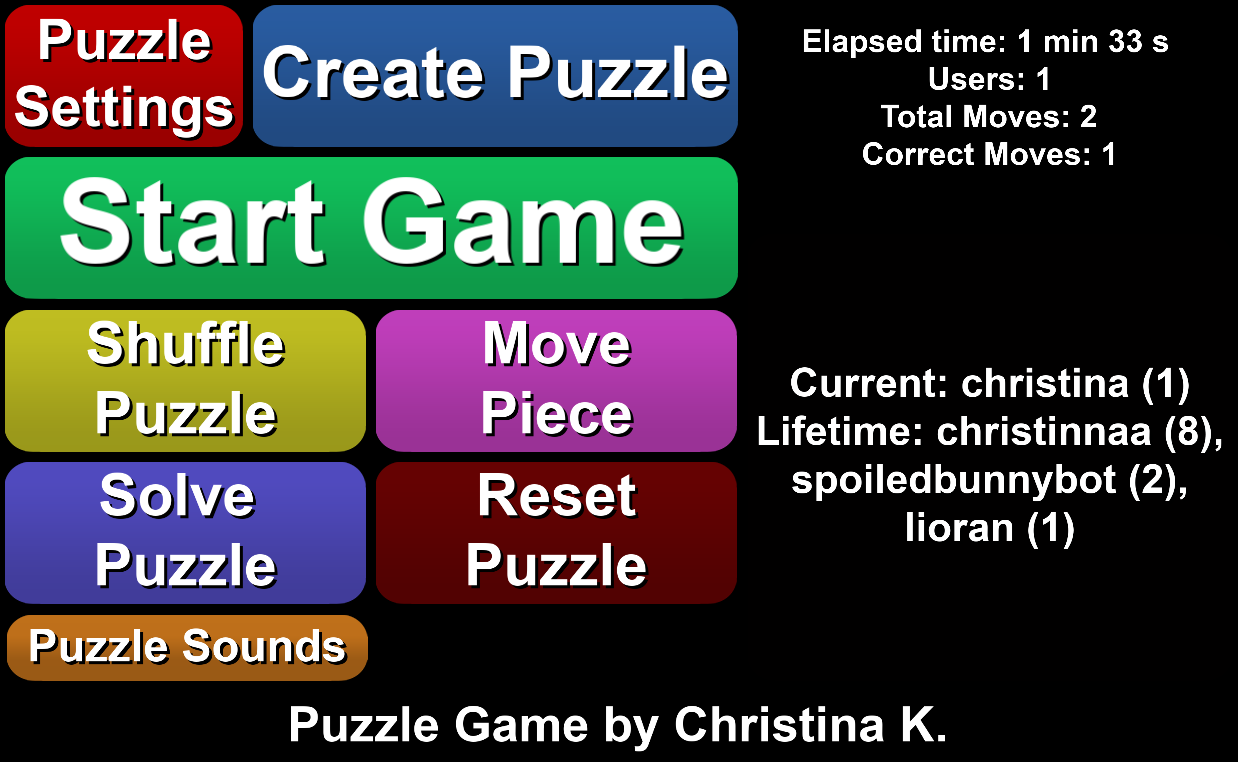
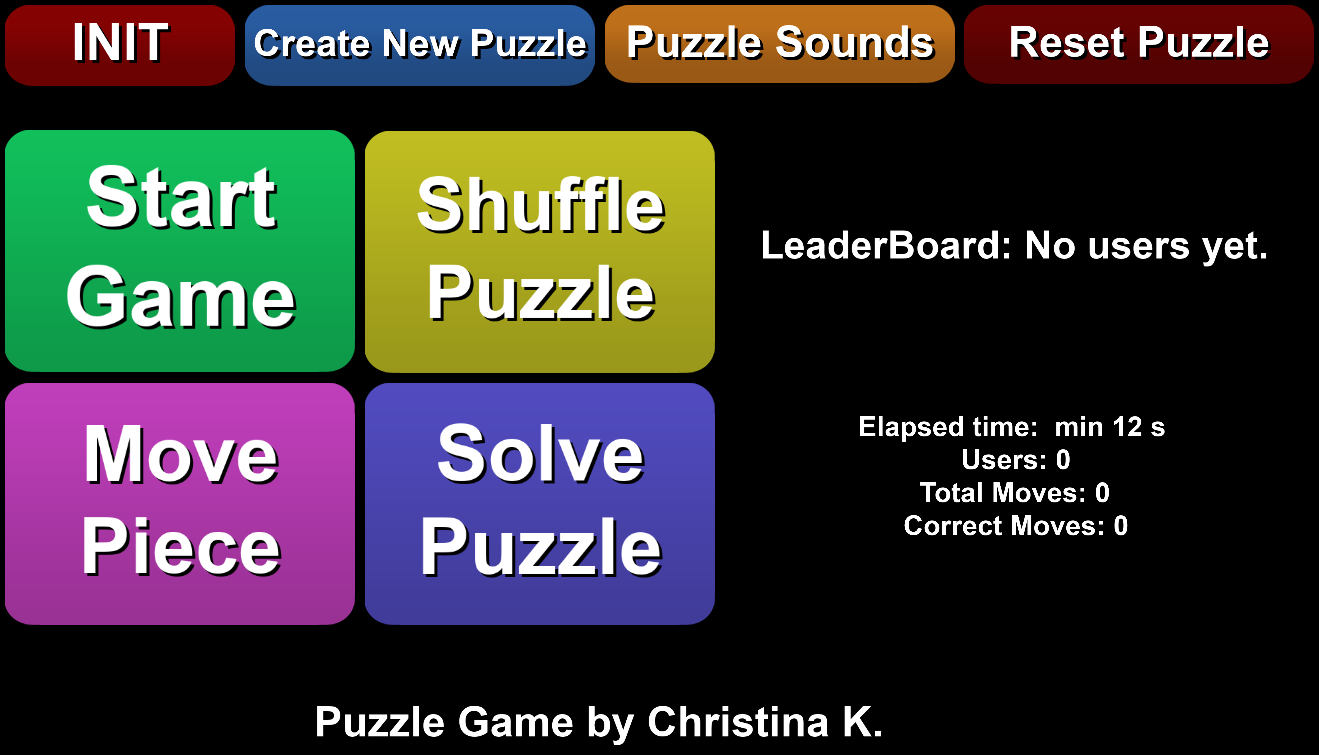
puzzle game update

diff --git a/collections/_extensions/puzzle-game.md b/collections/_extensions/puzzle-game.md
@@ -12,65 +12,125 @@ developer_url: https://christinak.itch.io
 icon_local: puzzle_game.png
 trailer: https://www.youtube.com/embed/fL8GVWe1bv8
 screenshots_local: puzzle_game_ss0.png, puzzle_game_ss.png, puzzle_game_ss2.png, puzzle_game_ss3.png
-version: 1.0
+version: 2.0
 sammi_version: Any
 platform: Any
 overview: |
-    **This extension allows you to transform any OBS source into a puzzle game. Your viewers can use the chat to swap the individual pieces to solve it!**  
+    **Unleash the fun with the Puzzle Game extension! Transform any OBS source into an interactive game where your viewers swap pieces to solve the puzzle, right from the chat!** 
 
-    Great interactive game for when you're away from your screen. You can create a new puzzle game out of any source or scene on the fly! 
+    Whether you're away from your screen or looking for a fresh way to engage with your audience, this is the perfect tool. Create a captivating puzzle from any scene or source instantly!
 
-    **Fully Automatic**  
-    It's extremely simple to create a new puzzle game! You just tell the extension which OBS source to use and how difficult you'd like it to be. It will automatically create a new scene with all the pieces (and their coordinates) and add it as a source to your original scene.\
-    After that you can just press the Start button! (in some cases there might be some minor adjusting needed for size/position of the nested scene)  
+    **Seamless Setup**  
+    Creating a new puzzle is as easy as 1-2-3! Select an OBS source, set the desired difficulty, and voila! The extension does the rest, automatically generating a new scene with all the pieces and their coordinates.  
+    Just hit the 'Start' button and let the fun begin! (In some instances, minor adjustments to the size/position of the nested scene might be necessary.)
 
     [video](https://www.youtube.com/embed/t-nGpUvbRZk)[/video]
 
-    **Multiple puzzle scenes**  
-    Create a puzzle game for multiple sources or scenes! You can have as many as you'd like and freely swap between them, depending on your current scene! 
+    **Unlimited Puzzle Scenes**  
+    Why limit the fun to one scene? Create puzzles for multiple sources or scenes! Switch between them as you wish, based on your current scene!
 
-    **Huge Customization**  
-    Choose the grid size (difficulty of the puzzle), customize borders and margins between the pieces, pick a font for the  coordinates and choose your own colors for everything!
+    **Ultimate Customization**  
+    Personalize your puzzle game to your taste! Choose the grid size for puzzle difficulty, tailor the borders and margins between pieces, select a font for coordinates, and handpick colors for every element!
 
     [video](https://www.youtube.com/embed/swqONhTFmPE)[/video]
     [video](https://www.youtube.com/embed/4rSH2JZqyzg)[/video]
 
-    **Animations and sound effects**  
+    **Animated Fun and Sound Effects**  
 
-    Shuffling and moving pieces is fully animated and comes with optional sound effects! And you can easily swap out the sound effects for your own as well!
+    Watch as the puzzle pieces shuffle and move in smooth animations! Enjoy optional sound effects or swap them out with your personal favorites!
 
-    **Automatically announce winners**  
-    The game can automatically detect when the puzzle is solved and even keeps track of which viewer placed the most pieces right! 
+    **Automatic Winner Announcements**  
+    The game knows when the puzzle is solved, and it even keeps a tally of which viewer correctly placed the most pieces!
 
-    **Reshuffle and Give up commands**  
-    You or your mods can reshuffle or auto solve the puzzle at any time. 
+    **Reshuffle and Surrender Commands**  
+    You and your mods have the power to reshuffle or auto-solve the puzzle anytime.
 
-    **Leaderboard**
-    Fully automatic Leaderboard for your current and all the previous Puzzle games.
+    **Leaderboard**  
+    Track the champions of your Puzzle games with a fully automatic leaderboard for current and past games.
 
-    **Important note**  
-    The extension requires the following OBS plugins to be installed (minimum recommended versions): OBSWS,  ShaderFilter (1.21), StreamFX (0.10.0.0) and Move Transition (2.4.4). Move transition is especially important to update to the latest version.\
-    There's no migration function for your current puzzle scenes from LioranBoard 1, you will need to recreate them in SAMMI.
-
-    *Check out the extension in action, thank you  JimmyPotatoTV !*
+    *Here's a sneak peek of the Puzzle Game extension in action, thanks to JimmyPotatoTV!*
     [video](https://clips.twitch.tv/embed?clip=CrepuscularAmazingSwanPlanking-PYMJJkW5M5i1SkEw&parent=sammi.solutions)[/video]
 setup: |
+    ##### Getting Started
 
-    <div class="alert alert-warning mt-2" role="alert">There's no migration function for your current puzzle scenes from LioranBoard 1, you will need to recreate them in SAMMI.</div>
+    Check out a quick setup guide:
+    [video](https://www.youtube.com/embed/xQS24mKv-dU)[/video]
 
-    1. Place `puzzle_game` folder in `SAMMI/Ext` folder (create the Ext folder if it does not exist yet). 
-    2. Install the extension. You can follow the [Extension Install Guide](https://sammi.solutions/extensions/install). 
-    3. Read all the comments in the red **Puzzle Settings** button in your premade deck. It contains information on how to fill out all the values. Save all the changes. 
-    4. Press the blue **Create Puzzle** button while connected to OBS and Bridge, and wait. You should get a popup once it's done creating your puzzle scene. You might need to make small adjustments to the position/size of the newly created nested scene, but in most cases it should perfectly overlap with your original source. 
-    5. Edit the green **Start Game** button. Read the comments and only edit the required fields. Save all the changes. 
-    6. Press **Start Game** button while you're connected to OBS and on your scene from where the Puzzle Game was created. You can now use a chat command `!puzzle A1 to B1` (for example) to move the puzzle pieces.
-    
-    - **Current Game Info** button will show you information about the currently running puzzle game
-    - Press **Leaderboard** button to send current Leaderboard information to your chat. Leaderboard is saved into `puzzle_leaderboard.csv` file in your `SAMMI/Ext/Puzzle_Game` folder for each completed game with the username who had the most correct moves. Do not manually edit the file. 
-    - Press **Solve Puzzle** button if you want to prematurely end the game. 
-    - Press **Shuffle Puzzle** button to reshuffle the puzzle.
-    - Press **Reset Puzzle** button to clear all current puzzle variables and reset current game's leaderboard
-    - Edit **Puzzle Sounds** button if you wish to use your own sounds for when pieces are shuffled/moved
+    1. Ensure SAMMI is updated to the latest version. Make sure it's connected to OBS and Bridge.
+        <div class="alert alert-warning mt-2" role="alert">Please note that this extension requires OBS Websocket 5.</div>
+    2. Ensure the following OBS plugins are installed: 
+        - OBS Shader Filter: version 1.21^ [Download](https://github.com/exeldro/obs-shaderfilter/releases)
+        - Source Copy: version 0.2.2^ [Download](https://obsproject.com/forum/resources/source-copy.1261/)
+        - Move Transition: version 2.4.4^ [Download](https://obsproject.com/forum/resources/move-transition.913/)
+    3. Install the extension. Follow the [Extension Install Guide](https://sammi.solutions/extensions/install) for help.
+    4. In the Puzzle Game premade deck (added after extension installation), modify the red INIT button:
+        - `OBSWS Name`: The name of your OBS, to be used for this extension (matching the name in the SAMMI-OBS Connections menu). By default, it's 'Main'.
+        - `OBSWS Port`: The OBS port for this extension (matching the one in the SAMMI-OBS Connections menu). Default is 4455.
+        - `OBSWS Password`: Your OBS password, if set (matching the one in the SAMMI-OBS Connections menu).
+    5. Save the changes and click the button.
+
+    <div class="alert alert-info" role="alert">This extension sends error logs for uncaught errors to Rollbar automatically. All sensitive data is cleaned, and only the error and its origin are logged. This is to enhance the extension's performance and help me fix any bugs. Opt out via the Bridge - Puzzle Game tab.</div>
+
+    ##### Creating a New Puzzle
+
+    1. Modify the blue 'Create New Puzzle' button:
+        - Fill out all required boxes:
+            - `New Puzzle Scene Name`: A new name for your puzzle scene.
+            - `Source Name`: The source for your puzzle.
+            - `Scene Name`: The scene where your puzzle source is located.
+            - `Rows`: The number of rows your puzzle should have, with a maximum of 26.
+            - `Columns`: The number of columns your puzzle should have.
+        - (Optional) Fill out the optional boxes:
+            - `Border`: If you want a border around every piece.
+            - `Border Thickness`: Border thickness in pixels. Adjust this if your puzzle scene is resized.
+            - `Border Color`: Border color. Choose from the color picker.
+            - `Text Size`: Size of the puzzle text coordinates. Adjust this if your source is significantly resized.
+            - `Text Font`: Font of the puzzle text coordinates. Example: Comic Sans MS.
+            - `Text Color`: Color of the puzzle text coordinates. Choose from the color picker.
+            - `Outline`: If you want to show a puzzle text outline.
+            - `Outline Thickness`: Puzzle text outline thickness. Adjust this based on font size and scene size.
+            - `Outline Color`: Puzzle text outline color. Choose from the color picker.
+    2. Save the changes and click the button.
+
+    ##### Starting a New Puzzle Game
+
+    <div class="alert alert-warning" role="alert">Before this step, ensure you've already created the puzzle game with the 'Create New Puzzle' button.</div>
+
+    1. Modify the green 'Start Game' button:
+        - `Puzzle Scene Name`: The puzzle scene you want to start the game on. This is the scene added with the 'Create' button.
+        - `Sounds Enabled`: If you want to enable sounds when pieces are shuffled/moved.
+        - `Shuffle Pieces to Mid`: If you want the pieces to first gather in the middle and then spread out when shuffling.
+    2. Click the button (or add a Twitch chat trigger to the button, like '!puzzle start').
+    3. A new game begins! Your chosen OBS source for the puzzle scene will be hidden and replaced with the puzzle scene. The puzzle will shuffle instantly, ready for your viewers to start playing.
+
+    ##### Shuffling Puzzle Game
+
+    Click the 'Shuffle Puzzle' button. It only works when a puzzle game is already in progress.
+
+    ##### Moving Puzzle Piece
+
+    By default, the chat trigger to move a puzzle piece is '!Puzzle move * to *'.  
+    You can customize the button trigger, but don't forget to adjust the block inside the button that manages trigger data. Within the button, you can customize chat messages for when a piece is moved, an incorrect coordinate is given, or when the puzzle is solved.
+
+    ##### Solving Puzzle
+
+    Press the 'Solve Puzzle' button to instantly complete the current puzzle game.  
+    Inside the button, check `Reset All` if you want this command to also reset all puzzle variables and clear the current puzzle game's leaderboard. Otherwise, you'll need to manually press the 'Reset Puzzle' button afterwards.
+
+    ##### Resetting Puzzle
+
+    Press the 'Reset Puzzle' button to reset the puzzle. This will reset all puzzle variables and clear the current puzzle game's leaderboard.
+
+    ##### Viewing Leaderboard
+
+    You can view the current leaderboard using the 'Leaderboard' button. Press it once to post the current leaderboard in your chat.  
+    This is all managed automatically, including saving the user who made the most correct moves in the last puzzle game.  
+    The leaderboard is saved into `puzzle_leaderboard.csv` file in your `SAMMI/Ext/Puzzle_Game` folder for each completed game, along with the username who made the most correct moves.  
+    Please avoid manually editing the file.
+
+    ##### Customizing Puzzle Sounds
+
+    Within this button, you can modify the puzzle sounds for when you shuffle the puzzle, move a piece, and when the puzzle game is solved.
 testers:
 privacy_collect: false
 ---
